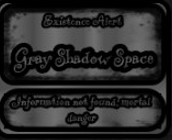
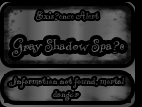
UI_Alert_Macro_v6_0

diff --git a/ui_alert_macro_gui.py b/ui_alert_macro_gui.py
@@ -20,7 +20,7 @@ import cv2
 import mss
 import numpy as np
 
-VERSION = "5.3"
+VERSION = "6.0"
 EXPERIMENTAL = False
 BASE_DIR = Path(__file__).resolve().parent
 CONFIG_PATH = BASE_DIR / "app_config.json"
@@ -43,7 +43,7 @@ MIN_SCORE_GAP = 0.05
 FAMILY_MISMATCH_PENALTY = 0.55
 CHECK_INTERVAL = 5.0
 TGSS_FAST_INTERVAL = 0.75
-TGSS_LEGACY_INTERVAL = 2.5
+TGSS_LEGACY_INTERVAL = 2.0
 TGSS_SUSPECT_DURATION = 8.0
 TGSS_SUSPECT_MARGIN = 0.12
 TGSS_KEY = "gray_shadow_space"
@@ -144,7 +144,7 @@ def default_window(index: int = 1) -> dict:
 
 
 def default_config() -> dict:
-    return {"config_version": "5.3", "webhook_url": "", "role_ids": {k: "" for k in EVENTS}, "biome_enabled": {k: False for k in EVENTS}, "language": "en", "theme": "light",
+    return {"config_version": "6.0", "webhook_url": "", "role_ids": {k: "" for k in EVENTS}, "biome_enabled": {k: False for k in EVENTS}, "language": "en", "theme": "light",
             "crop_only": False, "crop_margin": True, "developer": False, "gss_multi_ping": True, "thresholds": dict(STANDARD_THRESHOLDS),
             "global_quality": "1080p", "biome_quality": {k: "global" for k in EVENTS},
             "windows": [default_window()]}
@@ -202,7 +202,7 @@ def load_config() -> dict:
             if 0.01 <= v <= 1.0:
                 # 5.1 used 0.63 for TGSS. Update only the old default value
                 # when importing settings, retaining explicit custom values.
-                if key == "gray_shadow_space" and str(data.get("config_version", "")) not in ("5.2", "5.3") and abs(v - 0.63) < 1e-9:
+                if key == "gray_shadow_space" and str(data.get("config_version", "")) not in ("5.2", "5.3", "6.0") and abs(v - 0.63) < 1e-9:
                     v = STANDARD_THRESHOLDS[key]
                 cfg["thresholds"][key] = v
         except (ValueError, TypeError, AttributeError):
@@ -418,7 +418,6 @@ class LegacyTGSSResult:
 
 
 def legacy_image_similarity(a: np.ndarray, b: np.ndarray) -> float:
-    """Original v2 matching weights, unchanged: gray / edges / RGB histogram."""
     gray_a = cv2.cvtColor(a, cv2.COLOR_BGR2GRAY)
     gray_b = cv2.cvtColor(b, cv2.COLOR_BGR2GRAY)
     gray_score = correlation_01(gray_a, gray_b)
@@ -432,22 +431,29 @@ def legacy_image_similarity(a: np.ndarray, b: np.ndarray) -> float:
     return 0.55 * gray_score + 0.25 * edge_score + 0.20 * hist_score
 
 
-def load_legacy_templates() -> dict[str, np.ndarray]:
-    """Seven original v2 references; used only to decide whether TGSS is present."""
-    result = {}
+def load_legacy_templates() -> dict[str, list[np.ndarray]]:
+    """Use the v2 comparison formula on the current primary UI images."""
+    result: dict[str, list[np.ndarray]] = {}
     for key in LEGACY_EVENT_KEYS:
-        path = BASE_DIR / "legacy_ui" / (key + ".png")
-        image = cv2.imread(str(path), cv2.IMREAD_COLOR)
-        if image is None:
-            raise FileNotFoundError(f"Missing legacy UI image: {path}")
-        result[key] = normalize_image(image)
+        variants: list[np.ndarray] = []
+        for filename in EVENTS[key][1]:
+            path = BASE_DIR / "ui" / filename
+            image = cv2.imread(str(path), cv2.IMREAD_COLOR)
+            if image is None:
+                raise FileNotFoundError(f"Image not found: ui/{filename}")
+            variants.append(normalize_image(image))
+        result[key] = variants
     return result
 
 
-def detect_tgss_legacy(image: np.ndarray, templates: dict[str, np.ndarray]) -> LegacyTGSSResult:
-    """Original v2 0.76 threshold and 0.025 runner-up gap. Other biomes cannot ping."""
-    scores = sorted(((legacy_image_similarity(image, template), key)
-                     for key, template in templates.items()), reverse=True)
+def detect_tgss_legacy(image: np.ndarray, templates: dict[str, list[np.ndarray]]) -> LegacyTGSSResult:
+    scores = []
+    for key, variants in templates.items():
+        if not variants:
+            continue
+        best = max(legacy_image_similarity(image, template) for template in variants)
+        scores.append((best, key))
+    scores.sort(reverse=True)
     if not scores:
         return LegacyTGSSResult(False, "", 0.0, 0.0)
     best_score, best_key = scores[0]
@@ -581,7 +587,7 @@ def discord_payload(role_id: str, event_key: str, vip_url: str, filename: str,
         modern = d["modern"]
         legacy = d["legacy"]
         content += (
-            "\n\n**TGSS diagnostics (v5.3 EX)**"
+            "\n\n**TGSS diagnostics (v6.0 EX)**"
             f"\nTriggered by: **{d['trigger']}**"
             f"\nModern TGSS: {d['modern_tgss_score']:.3f} / {d['modern_threshold']:.3f}"
             f" | best: {modern.best_key} ({modern.score:.3f})"
@@ -614,7 +620,7 @@ def send_discord_ping(key: str, role_id: str, webhook: str, vip_url: str, image:
     payload = discord_payload(role_id, key, vip_url, filename, tgss_diagnostics)
     data, boundary = build_multipart(payload, image, filename)
     request = urllib.request.Request(webhook, data=data, method="POST", headers={
-        "Content-Type": f"multipart/form-data; boundary={boundary}", "User-Agent": "UI-Alert-Macro/5.3"})
+        "Content-Type": f"multipart/form-data; boundary={boundary}", "User-Agent": "UI-Alert-Macro/6.0"})
     try:
         with urllib.request.urlopen(request, timeout=18) as response:
             code = response.status
@@ -1090,7 +1096,7 @@ class App:
         entry.bind("<Button-3>", self._entry_menu)
 
     def _build_ui(self):
-        self.heading = tk.Label(self.root, text="UI ALERT MACRO v5.2", font=("Segoe UI", 18, "bold"))
+        self.heading = tk.Label(self.root, text=f"UI ALERT MACRO v{VERSION}", font=("Segoe UI", 18, "bold"))
         self.heading.pack(pady=(12, 9))
         self.notebook = ttk.Notebook(self.root)
         self.notebook.pack(fill="both", expand=True, padx=12, pady=(0, 12))
@@ -1292,7 +1298,7 @@ class App:
 
 
     def _build_credits(self):
-        self.credits_header = tk.Label(self.credits_page, text="UI ALERT MACRO v5.2", font=("Segoe UI", 18, "bold"))
+        self.credits_header = tk.Label(self.credits_page, text=f"UI ALERT MACRO v{VERSION}", font=("Segoe UI", 18, "bold"))
         self.credits_header.pack(pady=(46, 5))
         self.credits_by = tk.Label(self.credits_page, font=("Segoe UI", 10))
         self.credits_by.pack(pady=(0, 18))

diff --git a/README.md b/README.md
@@ -1,56 +1,40 @@
-# UI Alert Macro v5.3
+# UI Alert Macro v6.0
 
 Windows desktop application for recognizing on-screen Roblox biome notifications and sending Discord role alerts with screenshots.
 
-**Creators:** Kizmum (`mindustry`) and Fonar (`nikline_`).
+Creators: Kizmum (`mindustry`) and Fonar (`nikline_`).
 
 ## Installation
+- Requirements: Windows 10/11, Python 3.13.
+- Download the `UI_Alert_Macro_v6_0.zip` asset from GitHub Releases. Extract the entire archive before running it.
+- Keep the `ui/` folder beside `ui_alert_macro_gui.py`.
+- Run `install.bat` once. Then run `start.bat`.
+- In Settings and Other, paste your Discord webhook URL and role IDs, and enable the desired biomes. Role mentions such as `<@&123456789012345678>` are converted to digits.
+- In Main, adjust the detection area. `F1` starts every enabled workspace, `F2` stops every workspace. Each workspace's START/STOP button operates independently.
 
-- **Requirements:** Windows 10/11, Python 3.13.
-- Download the `UI_Alert_Macro_v5_3.zip` asset from GitHub Releases. **Extract the entire archive** before running it.
-- Keep both `ui/` and `legacy_ui/` beside `ui_alert_macro_gui.py`.
-- Run `install.bat` once (installs `mss`, `opencv-python`, `numpy`). Then run `start.bat`.
-- In **Settings and Other**, paste your Discord webhook URL and role IDs, and enable the desired biomes. Role mentions such as `<@&123456789012345678>` are converted to digits.
-- In **Main**, adjust the detection area. `F1` starts every enabled workspace, `F2` stops every workspace. Each workspace's START/STOP button operates independently.
+## Recognition in v6.0
+All non-TGSS biomes use the unchanged v5.2 method and are checked once every 5 seconds per enabled workspace.
 
-## Recognition in v5.3
+For The Gray Shadow Space (TGSS), v6.0 uses two detection engines, both working from the same main UI image set in `ui/`:
+1. **Modern engine:** unchanged v5.2 classifier using `tgss1.png`, `tgss2.png`, `tgss3.png`, with the normal 0.66 threshold and 0.05 ambiguity gap. On the regular 5-second full scan, if the TGSS-only score comes within 0.12 of the threshold, the macro activates TGSS-only accelerated sampling every 0.75 seconds for a short period.
+2. **Classic engine:** uses the original v2 comparison formula (55% grayscale correlation, 25% edge correlation, 20% RGB histogram correlation) every 2.0 seconds. It compares against the main image set for the seven original biomes and can send alerts only for TGSS.
 
-All **non-TGSS biomes** use the unchanged v5.2 recognition method and are checked once every **5 seconds per enabled workspace**.
+TGSS multi-ping remains available in Developer settings. All TGSS detection paths share the same cooldown inside a workspace.
 
-For **The Gray Shadow Space (TGSS)** the macro now uses two separate detection engines, both restricted to sending TGSS notifications:
-
-1. **Modern (v5.2) engine:** the original v5.2 classifier uses `tgss1.png`, `tgss2.png`, `tgss3.png`, a default threshold of **0.66**, and the usual ambiguity check (`0.05` gap). On the ordinary 5-second full scan, if the TGSS-only score comes within **0.12** of its configured threshold, it activates **TGSS-only accelerated sampling every 0.75 seconds**. The accelerated mode lasts while the UI continues to look similar to TGSS (up to 8 seconds from the most recent suspicious check). A candidate above threshold is verified against the other biomes on the same frame **before** an alert is sent; that confirmation can only send a TGSS alert, never another biome alert.
-2. **Legacy (v2) engine:** independently checks for TGSS every **2.5 seconds**, using the original v2 comparison formula (55% grayscale correlation, 25% edge correlation, 20% RGB histogram correlation), the original threshold **0.76**, and original ambiguity gap **0.025**. It uses the seven reference images in `legacy_ui/` to rule out confusion with other old biomes, but **can send alerts only for TGSS**. `legacy_ui/gray_shadow_space.png` contains the first frame of the original animated WebP (formerly misnamed `Greyshadowspacealert1.png`) saved as a real static PNG.
-
-The legacy threshold intentionally does **not** change when you alter TGSS's modern threshold in Developer settings: it reproduces the v2 algorithm. The standard TGSS reference PNGs in `ui/` remain unchanged from v5.2.
-
-### Cooldowns (unchanged from v5.2)
-
-- Rainy World and Blood Moon: **6 minutes** per workspace and biome.
-- All other biomes: **12 minutes** per workspace and biome.
-- TGSS **Multi-ping** is enabled by default in Developer: successful TGSS alerts have a **5-second** cooldown. After **five successful TGSS alerts within two minutes**, TGSS gets a **12-minute** cooldown. Each workspace has its own history and cooldown. Disabling multi-ping gives TGSS the regular 12-minute cooldown.
-- Switching recognition engines does not bypass cooldown: a TGSS alert from either engine uses the **same TGSS cooldown within that workspace**.
+## Cooldowns
+- Rainy World and Blood Moon: 6 minutes per workspace and biome.
+- All other biomes: 12 minutes per workspace and biome.
+- TGSS Multi-ping: 5-second interval, escalating to 12 minutes after five successful pings inside two minutes.
 
 ## Workspaces, settings and screenshots
-
 Up to eight workspaces, independent detection regions, VIP links, colors, START/STOP state, workspace enable switches, and independent cooldowns. Shared Discord webhook, role IDs, language, themes and Developer settings. Settings apply and save automatically. Screenshots can capture the monitor or detection region (optional +25 px margin), with selectable resolution caps. Discord notifications are always in English.
 
-## Updating from v5.2
-
-Keep a backup of `app_config.json`. Copy it into the extracted v5.3 folder **before first launch** if you want to preserve settings, role IDs, webhook and workspaces. Do **not** upload this file to a public repository.
-
-## Important notes
-
-- The macro **does not** use every frame in the original animation. Legacy recognition is based on the same first frame v2 could read.
-- A likely TGSS triggers accelerated checks, but a TGSS score alone never overrides the ambiguity check used to prevent false positives.
-- During Discord upload the existing monitor thread waits for the HTTP response; this is a pre-existing behavior. Scan intervals are scheduling targets, not guaranteed real-time deadlines.
-- Recognition on reference images, timing and cooldown logic have been tested offline. **Actual Roblox events and live Discord webhook delivery must be tested on Windows before labeling this a fully verified stable release.**
-- This project is independent and is not affiliated with Roblox or Discord. Ensure use is consistent with applicable platform/game rules.
+## Updating from v5.3
+Keep a backup of `app_config.json`. Copy it into the extracted v6.0 folder before first launch if you want to preserve settings, role IDs, webhook and workspaces. Do not upload this file to a public repository.
 
 ## Privacy & GitHub
+`app_config.json` may contain private Discord webhook credentials and VIP links. Never publish it or include it in an issue report. `.gitignore` excludes it and local log files. Check changed files in GitHub Desktop before committing.
 
-`app_config.json` may contain **private Discord webhook credentials and VIP links**. Never publish it or include it in an issue report. `.gitignore` excludes it and local log files. Check changed files in GitHub Desktop before committing.
+For each GitHub release, create a new tag, e.g. `v6.0`, and attach the `UI_Alert_Macro_v6_0.zip` archive. Older tagged releases remain downloadable.
 
-For each GitHub release, create a new tag, e.g. `v5.3`, and attach the `UI_Alert_Macro_v5_3.zip` archive. Older tagged releases remain downloadable.
-
-License: **Apache-2.0** (the license already used in the project). See [`LICENSE`](LICENSE) and [`CHANGELOG.md`](CHANGELOG.md).
+License: Apache-2.0. See `LICENSE` and `CHANGELOG.md`.

diff --git a/CHANGELOG.md b/CHANGELOG.md
@@ -1,20 +1,11 @@
 # Changelog
 
-## [5.3] - 2026-11-14
+## v6.0
+- Replaced `ui/tgss3.png` with the new reference image.
+- TGSS classic engine now runs every 2.0 seconds instead of 2.5 seconds.
+- Removed the separate `legacy_ui/` dependency.
+- The classic v2 comparison formula now works from the same main UI image set as the modern engine.
+- TGSS accelerated modern checks remain limited to TGSS only; all other biomes stay unchanged.
 
-- Preserved the v5.2 full classification scan for every other biome (every 5 seconds).
-- Added an adaptive **TGSS-only** modern scan (every 0.75 seconds when TGSS is suspected), with full competition verification before alerting.
-- Restored the **v2 TGSS** detection method as a separate check every 2.5 seconds; included the original reference images as static PNGs in `legacy_ui/`.
-- Preserved workspace-scoped, biome-scoped cooldowns and the existing TGSS multi-ping behavior, shared by both detection engines.
-- No changes to the user-facing settings or workspaces.
-
-## [5.2] - 2026-11-10
-
-- Updated three TGSS reference images.
-- Equalized the modern TGSS detection threshold to 0.66.
-- Per-workspace and per-biome cooldowns: Rainy World/Blood Moon 6 minutes, others 12 minutes.
-- Optional TGSS multi-ping with 5-second intervals and five-send/2-minute window.
-
-## [5.1]
-
-- Added biome enable switches, workspace disable state, persistent detection overlays, and automatic settings saving.
+## v5.3
+- Added accelerated TGSS checks and EX diagnostics.
